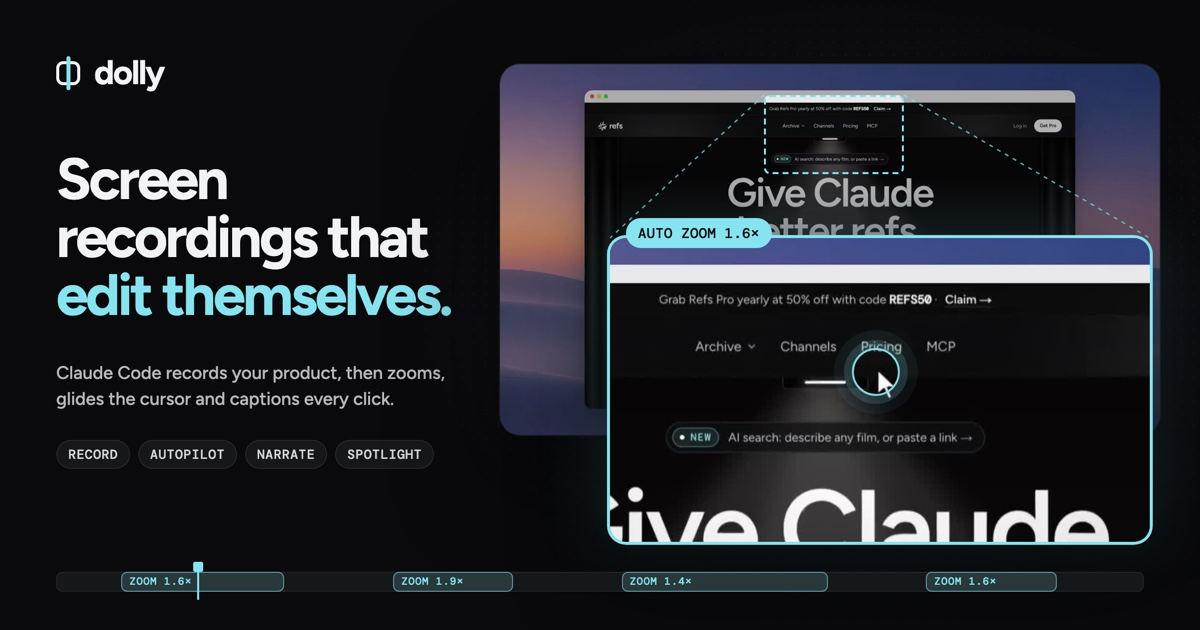
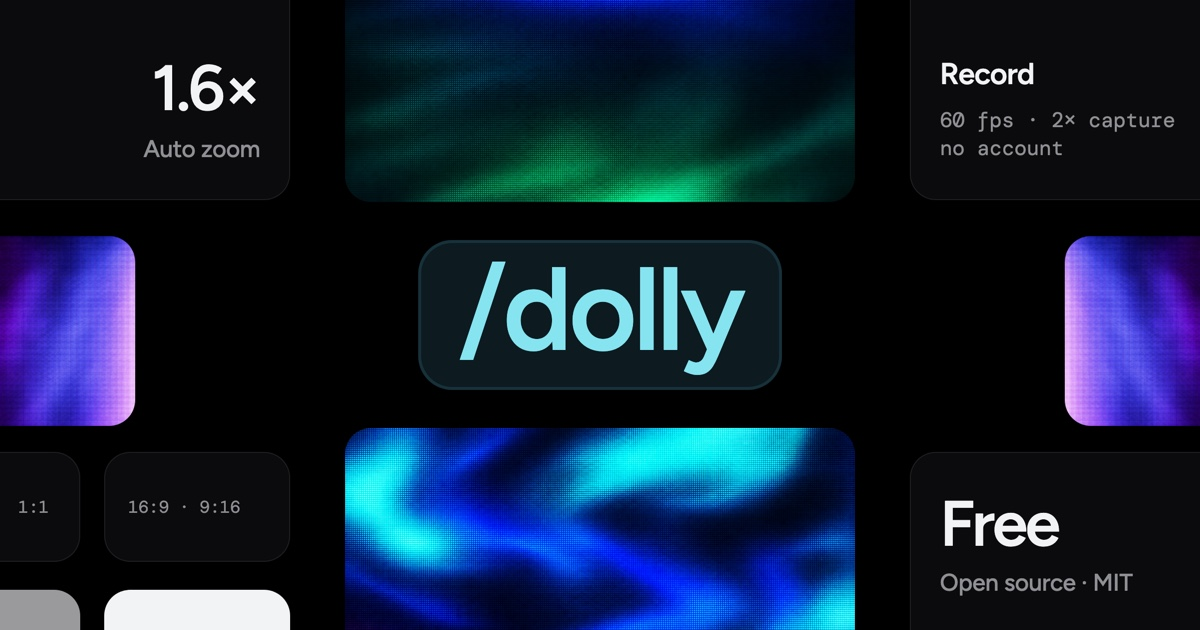
Site: new OG card

diff --git a/site/og/og.html b/site/og/og.html
@@ -3,69 +3,42 @@
 <link href="https://fonts.googleapis.com/css2?family=DM+Mono:wght@400;500&family=Figtree:wght@500;600;700&display=swap" rel="stylesheet">
 <style>
   * { box-sizing: border-box; margin: 0; padding: 0; }
-  html, body { width: 1200px; height: 630px; overflow: hidden; background: #0A0A0B; }
+  html, body { width: 1200px; height: 630px; overflow: hidden; background: #000; }
   body { position: relative; font-family: Figtree, sans-serif; color: #F2F3F4; }
-  .dots { position: absolute; inset: 0; background-image: radial-gradient(rgba(242,243,244,.09) 1px, transparent 1.2px); background-size: 12px 12px;
-    -webkit-mask-image: radial-gradient(60% 70% at 72% 45%, #000, transparent 80%); }
-  .glow { position: absolute; left: 860px; top: 300px; width: 900px; height: 600px; transform: translate(-50%, -50%); background: radial-gradient(closest-side, rgba(110,120,200,.16), transparent); }
-
-  .brand { position: absolute; left: 56px; top: 52px; display: flex; align-items: center; gap: 14px; font-weight: 700; font-size: 34px; letter-spacing: -.04em; }
-  .mark { width: 24px; height: 24px; border-radius: 7px; border: 3.5px solid #F2F3F4; position: relative; }
-  .mark::after { content: ''; position: absolute; left: 50%; top: -8px; bottom: -8px; width: 3.5px; background: #86E4F0; transform: translateX(-50%); border-radius: 2px; }
-  .h1 { position: absolute; left: 56px; top: 150px; width: 430px; font-weight: 700; font-size: 58px; line-height: 1; letter-spacing: -.045em; }
-  .h1 em { font-style: normal; color: #86E4F0; }
-  .sub { position: absolute; left: 56px; top: 360px; width: 400px; font-size: 18px; line-height: 1.45; color: #b8b9bb; }
-  .modes { position: absolute; left: 56px; top: 440px; display: flex; flex-wrap: wrap; gap: 8px; width: 420px; }
-  .modes span { font: 500 13px/1 'DM Mono', monospace; letter-spacing: .04em; color: #d6d7d9; padding: 8px 12px; border-radius: 999px; background: #161718; box-shadow: inset 0 0 0 1px #26272a; }
-
-  .stage { position: absolute; left: 500px; top: 64px; width: 660px; height: 371px; border-radius: 20px; overflow: hidden;
-    box-shadow: 0 0 0 1px rgba(255,255,255,.08), 0 40px 100px rgba(0,0,0,.6); }
-  .stage img { width: 100%; height: 100%; object-fit: cover; display: block; }
-  .box { position: absolute; left: 764px; top: 95px; width: 140px; height: 79px; border: 2px dashed #86E4F0; border-radius: 6px; box-shadow: 0 0 0 9999px rgba(10,10,11,.28); }
-  .boxwrap { position: absolute; left: 500px; top: 64px; width: 660px; height: 371px; border-radius: 20px; overflow: hidden; }
-  .boxwrap .box { left: 264px; top: 31px; }
-  svg.rays { position: absolute; inset: 0; }
-
-  .inset { position: absolute; left: 610px; top: 238px; width: 540px; height: 304px; border-radius: 16px; overflow: hidden;
-    box-shadow: 0 0 0 3px #86E4F0, 0 30px 90px rgba(0,0,0,.75), 0 0 70px rgba(134,228,240,.22); }
-  .inset img { width: 100%; height: 100%; object-fit: cover; }
-  .chip { position: absolute; left: 626px; top: 218px; z-index: 3; font: 500 14px/1 'DM Mono', monospace; color: #0A0A0B; background: #86E4F0; padding: 8px 12px; border-radius: 999px; letter-spacing: .02em; }
-  .ripple { position: absolute; left: 852px; top: 348px; width: 48px; height: 48px; border-radius: 50%; border: 2.5px solid rgba(134,228,240,.95);
-    box-shadow: 0 0 0 8px rgba(134,228,240,.16), 0 0 0 18px rgba(134,228,240,.06); }
-
-  /* Dolly's editor timeline */
-  .tl { position: absolute; left: 56px; right: 56px; bottom: 34px; height: 34px; }
-  .tl .track { position: absolute; left: 0; right: 0; top: 10px; height: 20px; border-radius: 6px; background: #161718; box-shadow: inset 0 0 0 1px #232427; }
-  .seg { position: absolute; top: 10px; height: 20px; border-radius: 6px; background: rgba(134,228,240,.16); box-shadow: inset 0 0 0 1px rgba(134,228,240,.55);
-    font: 500 10.5px/20px 'DM Mono', monospace; letter-spacing: .06em; color: #86E4F0; padding-left: 8px; white-space: nowrap; overflow: hidden; }
-  .ph { position: absolute; top: 0; bottom: -4px; width: 2px; background: #86E4F0; }
-  .ph::before { content: ''; position: absolute; top: 0; left: -4px; width: 10px; height: 10px; background: #86E4F0; border-radius: 2px; }
-  .tc { position: absolute; top: -2px; font: 500 11px/1 'DM Mono', monospace; color: #86E4F0; }
-  .url { position: absolute; right: 56px; top: 62px; font: 500 15px/1 'DM Mono', monospace; color: #8b8c8e; display: none; }
+  .c { position: absolute; border-radius: 26px; overflow: hidden; }
+  .card { background: #0B0B0C; box-shadow: inset 0 0 0 1px #1E1F21; }
+  /* textured cards: a Dolly wallpaper, blurred, then dithered with a dot screen and faint scanlines */
+  .img img { position: absolute; inset: 0; width: 100%; height: 100%; object-fit: cover; }
+  .img { box-shadow: inset 0 0 0 1px rgba(255,255,255,.06); }
+  .big { font-weight: 600; font-size: 64px; line-height: 1; letter-spacing: -.04em; }
+  .lbl { font-weight: 500; font-size: 24px; color: #8f9093; letter-spacing: -.01em; }
+  .mono { font-family: 'DM Mono', monospace; font-weight: 400; }
+  .pill { position: absolute; left: 50%; top: 315px; transform: translate(-50%, -50%); padding: 10px 40px 22px; border-radius: 34px;
+    background: #0C1A20; box-shadow: inset 0 0 0 3px #17313a; }
+  .pill span { font-weight: 600; font-size: 118px; line-height: 1; letter-spacing: -.035em; color: #86E4F0; }
 </style></head>
 <body>
-  <div class="glow"></div><div class="dots"></div>
-  <div class="brand"><span class="mark"></span>dolly</div>
-  <div class="h1">Screen recordings that <em>edit themselves.</em></div>
-  <div class="sub">Claude Code records your product, then zooms, glides the cursor and captions every click.</div>
-  <div class="modes"><span>RECORD</span><span>AUTOPILOT</span><span>NARRATE</span><span>SPOTLIGHT</span></div>
-
-  <div class="stage"><img src="rec-0.2.jpg"></div>
-  <div class="boxwrap"><div class="box"></div></div>
-  <svg class="rays" width="1200" height="630"><g stroke="#86E4F0" stroke-width="1.5" stroke-dasharray="4 5" opacity=".7" fill="none">
-    <line x1="764" y1="95" x2="610" y2="238"/><line x1="904" y1="95" x2="1150" y2="238"/>
-  </g></svg>
-  <div class="inset"><img src="inset.jpg"></div>
-  <div class="ripple"></div>
-  <div class="chip">AUTO ZOOM 1.6×</div>
-
-  <div class="tl">
-    <div class="track"></div>
-    <div class="seg" style="left:6%;width:15%">ZOOM 1.6×</div>
-    <div class="seg" style="left:31%;width:11%">ZOOM 1.9×</div>
-    <div class="seg" style="left:52%;width:19%">ZOOM 1.4×</div>
-    <div class="seg" style="left:80%;width:12%">ZOOM 1.6×</div>
-    <div class="ph" style="left:13%"></div>
+  <!-- top row -->
+  <div class="c card" style="left:-40px;top:-40px;width:330px;height:240px">
+    <div style="position:absolute;right:30px;top:96px;text-align:right"><div class="big">1.6×</div><div class="lbl" style="margin-top:14px">Auto zoom</div></div>
   </div>
-  <div class="url">dolly.refs.video</div>
+  <div class="c img" style="left:345px;top:-60px;width:510px;height:262px"><img src="codex/teal.jpg"></div>
+  <div class="c card" style="left:910px;top:-40px;width:330px;height:240px">
+    <div style="position:absolute;left:30px;top:96px"><div style="font-weight:600;font-size:30px;letter-spacing:-.02em">Record</div><div class="lbl mono" style="margin-top:14px;font-size:21px;line-height:1.35">60 fps · 2× capture<br>no account</div></div>
+  </div>
+
+  <!-- middle row -->
+  <div class="c img" style="left:-70px;top:236px;width:205px;height:190px"><img src="codex/violet.jpg" style="object-position:85% 50%"></div>
+  <div class="c img" style="left:1065px;top:236px;width:205px;height:190px"><img src="codex/violet.jpg" style="transform:scaleX(-1);object-position:85% 50%"></div>
+  <div class="pill"><span>/dolly</span></div>
+
+  <!-- bottom row -->
+  <div class="c card" style="left:-40px;top:452px;width:120px;height:110px"><span class="mono" style="position:absolute;left:58px;top:44px;font-size:17px;color:#8f9093">1:1</span></div>
+  <div class="c card" style="left:104px;top:452px;width:186px;height:110px"><span class="mono" style="position:absolute;left:24px;top:44px;font-size:17px;color:#8f9093">16:9 · 9:16</span></div>
+  <div class="c" style="left:-40px;top:590px;width:120px;height:110px;background:#9a9a9c"></div>
+  <div class="c" style="left:104px;top:590px;width:186px;height:110px;background:#F2F3F4"></div>
+  <div class="c img" style="left:345px;top:428px;width:510px;height:262px"><img src="codex/ice.jpg" style="object-position:40% 60%"></div>
+  <div class="c card" style="left:910px;top:452px;width:330px;height:240px">
+    <div style="position:absolute;left:30px;top:40px"><div class="big">Free</div><div class="lbl" style="margin-top:12px">Open source · MIT</div></div>
+  </div>
 </body></html>

diff --git a/site/og/README.md b/site/og/README.md
@@ -1,3 +1,3 @@
 # OG card source
 
-`og.html` renders `site/public/og.jpg` (1200x630). It reads frames cut from the hero clips (`rec-0.2.jpg` = hero/record.mp4 at 0.2 s, `inset.jpg` = record.mp4 at 1.7 s cropped 880x495+360+20), which are not in the repo. Render at 2x with Playwright, then downscale to 1200x630.
+`og.html` renders `site/public/og.jpg` (1200x630): Playwright at 2x, then downscale to 1200x630. The textures in `codex/` were generated with Codex (gpt-6-astra) for this card; they are original and ship with the repo.
